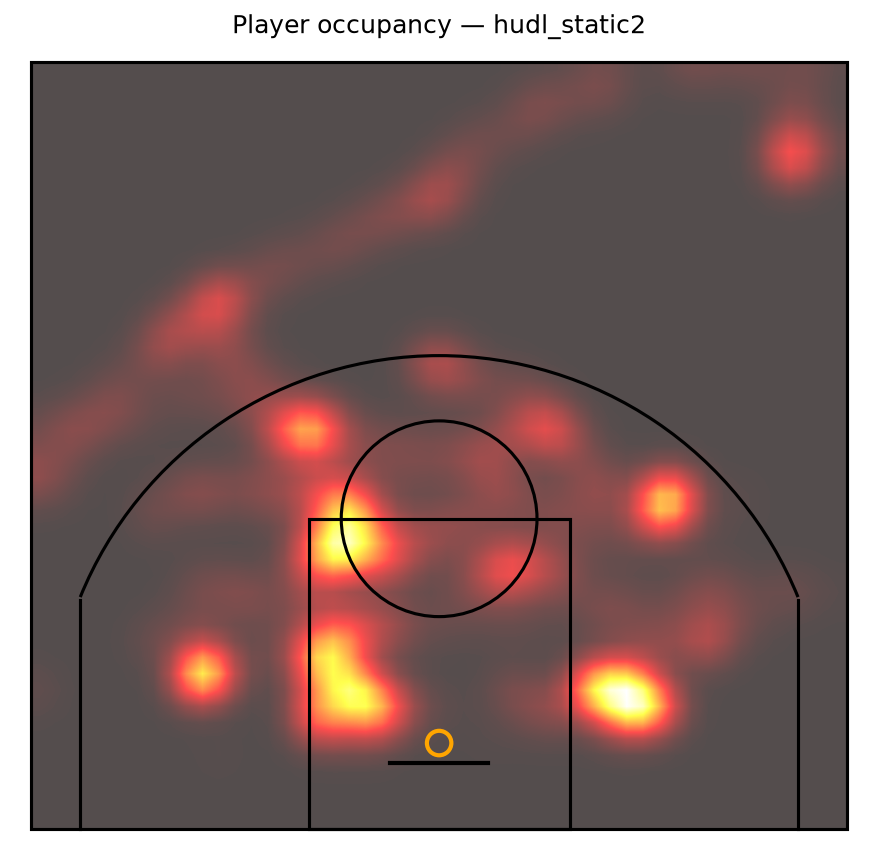
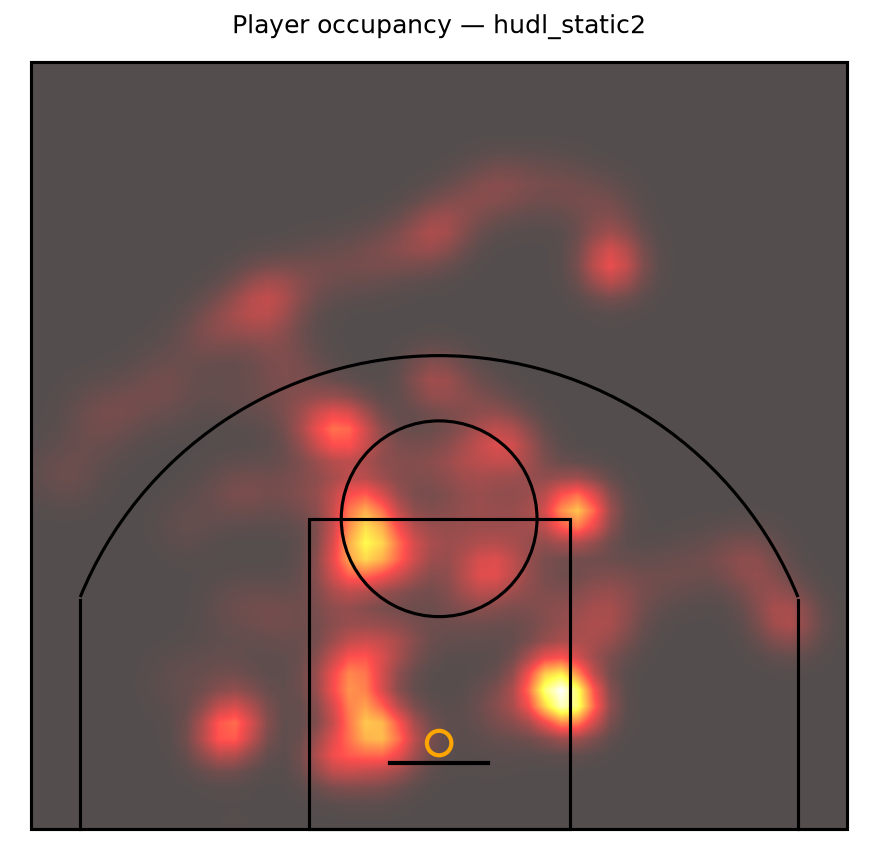
v2: recalibrate hudl_static2 with the correct NCAA court profile
The profile comparison showed hudl_static2 is an NCAA-dimension court, not NBA:
paint-corner reprojection drops from 1.7 ft (NBA assumption) to 0.87 ft, under
the 1 ft target. Regenerate the calibration and everything derived from it:

- calib_hudl_static2.json: --profile ncaa (0.87 ft).
- app/samples/hudl_static2 stats.json + heatmap.png and
  docs/occupancy_hudl_static2.png: regenerated. Player-stat distances drop
  ~10-30% as the over-scaled homography is corrected (top track 96->86 ft over
  21 s), which is more realistic for a half-court set.
- annotated.mp4: re-rendered so the minimap PIP reflects the new homography
  (re-encoded smaller too).
- README + data/README numbers updated (0.87 ft NCAA, new stat table, W3
  target now met via correct geometry rather than blamed on 360p).

events.json unchanged in substance (ball coverage gate is calibration-
independent). No code change beyond a docstring example; 88 tests pass.

diff --git a/scripts/build_court_keypoints.py b/scripts/build_court_keypoints.py
@@ -12,7 +12,7 @@ the printed summary numbers.
 
 Usage:
     uv run python scripts/build_court_keypoints.py \
-        --source data/clips/hudl_static2.mp4 calib_hudl_static2.json nba \
+        --source data/clips/hudl_static2.mp4 calib_hudl_static2.json ncaa \
         --output data/court_kpts --stride 15 --augment 4 \
         --overlay docs/court_keypoints_sample.jpg
 

diff --git a/README.md b/README.md
@@ -198,13 +198,17 @@ reliable per-player rows) over a 21 s possession:
 
 | track | team | seconds | distance (ft) | avg (mph) | top (mph) |
 |---|---|---|---|---|---|
-| 3 | 1 | 21.0 | 105.3 | 3.4 | 10.4 |
-| 8 | 0 | 20.8 | 96.2 | 3.2 | 12.3 |
-| 9 | 1 | 20.9 | 81.7 | 2.7 | 9.0 |
+| 8 | 0 | 20.8 | 85.8 | 2.8 | 10.9 |
+| 3 | 1 | 21.0 | 73.8 | 2.4 | 7.4 |
+| 9 | 1 | 20.9 | 72.3 | 2.4 | 7.5 |
+
+(Calibrated with the NCAA court profile — `hudl_static2`'s true geometry, 0.87 ft
+paint-corner reprojection; the earlier NBA-assumed homography over-scaled these
+distances. See [ROADMAP.md](ROADMAP.md) §4.1.)
 
 ![Court occupancy heatmap](docs/occupancy_hudl_static2.png)
 
-Distances and walking-to-jogging average speeds (2–3 mph, top bursts ~10–12 mph)
+Distances and walking-to-jogging average speeds (2–3 mph, top bursts ~7–11 mph)
 are physically sensible for a half-court set, and the heatmap concentrates in
 the paint and along the arc as expected. Honest caveats: numbers are per
 *track* not per named player (jersey OCR is future work), so short tracks are
@@ -306,8 +310,10 @@ Building in public, Jul–Aug 2026 ([SPEC.md](SPEC.md) has the weekly milestones
   mostly separated at 360p; occasional flips on small crops — noted limitation)
 - [x] W3 — homography + minimap, verified on a static lined-court clip
   (`docs/sample_minimap.jpg`; calibration = paint-region corners + curve
-  refinement, paint-corner reprojection 1.7 ft — above the 1 ft target because
-  the source is 360p; see `calib_hudl_static2.json`)
+  refinement). Paint-corner reprojection is **0.87 ft** — under the 1 ft target
+  once the correct NCAA court geometry is used (v1 assumed NBA dimensions and
+  got 1.7 ft; see the v2 court-profile note in ROADMAP §4.1). See
+  `calib_hudl_static2.json`.
 - [x] W4 — shot events vs hand-labeled ground truth (80%/80% on 3 clips, n=5;
   shot-chart court coordinates pending W3 calibration)
 - [x] W5 — from-scratch detector benchmark (player AP50 0.578 vs YOLO 0.965;

diff --git a/data/README.md b/data/README.md
@@ -49,8 +49,10 @@ The Hudl auto-tracking camera holds still in two ≥20 s windows (found by
 1 fps ceiling-strip phase correlation over the full game, verified by frame
 blending). Calibration was recovered from the paint region's segmented
 corners, then refined against the visible 3-pt arc / center circle / halfcourt
-line; at 360p the paint-corner reprojection error is 1.7 ft (target <1 ft
-needs a higher-resolution source — documented limitation).
+line; with the correct NCAA court profile the paint-corner reprojection error
+is **0.87 ft** (under the 1 ft target). v1 assumed NBA dimensions and got
+1.7 ft — the gap was wrong court geometry, not resolution (see the court-profile
+section below).
 
 Ground-truth shot labels are a simple CSV per clip: `time_s,outcome` with
 outcome ∈ {made, missed} — used by W4 precision/recall reporting.
@@ -114,16 +116,18 @@ corner-three segment on a pure-arc court) is dropped. `auto_calibrate.py
 --profile` uses the same models. Empirically this also identifies a clip's
 court type: re-fitting `hudl_static2` (same frame/curves) gives NBA 2.14 ft /
 **NCAA 0.87 ft** / HS 1.03 ft refined reprojection — it is an NCAA-dimension
-court, so v1's NBA-assumed 1.7 ft was the wrong geometry. Regenerating
-`calib_hudl_static2.json` (and its samples) with `--profile ncaa` is a pending
-accuracy win.
+court, so v1's NBA-assumed 1.7 ft was the wrong geometry. `calib_hudl_static2.json`
+and its `app/samples` stats/heatmap have been regenerated with `--profile ncaa`
+(the player-stat distances dropped ~10–30 % as the over-scaled homography was
+corrected).
 
 `court_kpts/` (images + `annotations.json`) is **gitignored** — regenerable,
 tied to the calibrations, and we never commit raw broadcast frames. The only
 committed artifact is `docs/court_keypoints_sample.jpg` (one annotated
 excerpt, spot-check). Pseudo-labels are only as accurate as the seed
-calibration (1.7 ft @ 360p on `hudl_static2`); add higher-res correctly-lined
-sources before trusting the trained model off this court.
+calibration (0.87 ft with the NCAA profile on `hudl_static2`); add more
+correctly-lined sources of other levels before trusting the trained model off
+this court.
 
 ## Ethics / legal
 